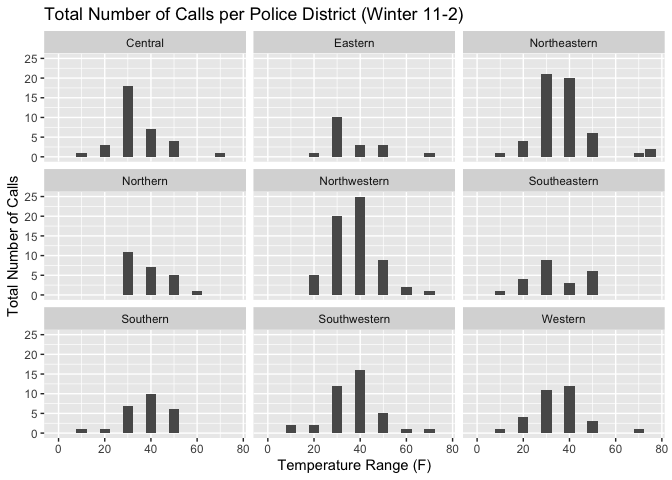
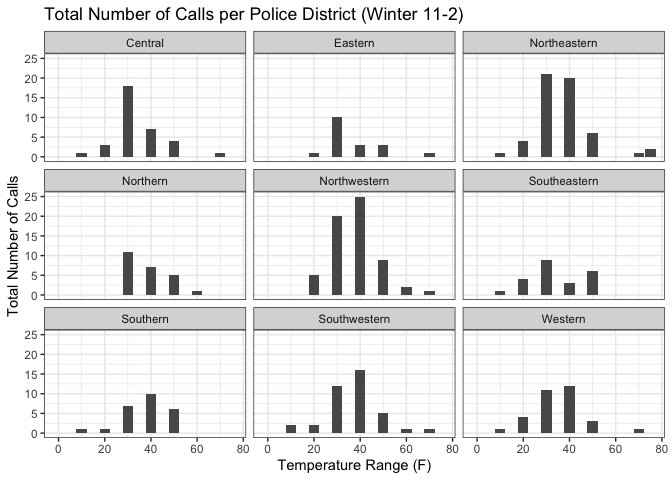
(11/14/2024) Worked on the map.

diff --git a/README.md b/README.md
@@ -193,23 +193,13 @@ winter_df <- df2 %>%
   filter(seasons == 1) %>%
   group_by(policeDistrict, tempCatagories) %>%
   summarise(avg_calls = mean(callscount, na.rm = TRUE))
-```
 
-    `summarise()` has grouped output by 'policeDistrict'. You can override using
-    the `.groups` argument.
-
-``` r
 # for summer
 summer_df <- df2 %>%
   filter(seasons == 0) %>%
   group_by(policeDistrict, tempCatagories) %>%
   summarise(avg_calls = mean(callscount, na.rm = TRUE))
-```
 
-    `summarise()` has grouped output by 'policeDistrict'. You can override using
-    the `.groups` argument.
-
-``` r
 # Scatter plot -winter
 greenPalette <- c("#003300", "#004d00", "#006600", "#008000", "#009900", "#00b300", "#00cc00", "#33cc33", "#66ff66")
 
@@ -219,10 +209,9 @@ ggplot(winter_df, aes(x = tempCatagories, y = avg_calls, color = policeDistrict)
   scale_color_manual(values = greenPalette) +
   labs(title = "Average Number of Calls vs Temperature (F) by Police District (Winter 11-2)",
        x = "Temperature Range (F)", 
-       y = "Average Number of Calls")
+       y = "Average Number of Calls") +
+  theme_bw()
 ```
-
-    `geom_smooth()` using method = 'loess' and formula = 'y ~ x'
 
 ![](README_files/figure-commonmark/unnamed-chunk-6-1.png)
 
@@ -235,16 +224,15 @@ ggplot(summer_df, aes(x = tempCatagories, y = avg_calls, color = policeDistrict)
   #scale_color_manual(values = c("#006400", "#228B22", "#32CD32", "#7FFF00", "#ADFF2F")) +
   labs(title = "Average Number of Calls vs Temperature (F) by Police District (Summer 4-9)",
        x = "Temperature Range (F)", 
-       y = "Average Number of Calls")
+       y = "Average Number of Calls") +
+  theme_bw()
 ```
-
-    `geom_smooth()` using method = 'loess' and formula = 'y ~ x'
 
 ![](README_files/figure-commonmark/unnamed-chunk-6-2.png)
 
 ``` r
 #----------------------------------------------------------------------------------------------
-# We will not be using these graphs
+# We will not be using these graphs (I think so)
 
 
 # for winter
@@ -252,30 +240,21 @@ df_winter <- df2 %>%
   filter(seasons == 1) %>%
   group_by(policeDistrict, tempCatagories) %>%
   summarize(total_callscount = sum(callscount))
-```
 
-    `summarise()` has grouped output by 'policeDistrict'. You can override using
-    the `.groups` argument.
-
-``` r
 # for summer
 df_summer <- df2 %>%
   filter(seasons == 0) %>%
   group_by(policeDistrict, tempCatagories) %>%
   summarize(total_callscount = sum(callscount))
-```
 
-    `summarise()` has grouped output by 'policeDistrict'. You can override using
-    the `.groups` argument.
-
-``` r
 # Grouped bar graph -winter
 ggplot(df_winter, aes(x = tempCatagories, y = total_callscount)) + 
     geom_bar(stat="identity") +
     facet_wrap((~ as.character(policeDistrict))) +
     labs(title = "Total Number of Calls per Police District (Winter 11-2)",
        x = "Temperature Range (F)", 
-       y = "Total Number of Calls")
+       y = "Total Number of Calls") +
+  theme_bw()
 ```
 
 ![](README_files/figure-commonmark/unnamed-chunk-6-3.png)
@@ -287,7 +266,8 @@ ggplot(df_summer, aes(x = tempCatagories, y = total_callscount)) +
     facet_wrap((~ as.character(policeDistrict))) +
     labs(title = "Total Number of Calls per Police District (Summer 4-9)",
        x = "Temperature Range (F)", 
-       y = "Total Number of Calls")
+       y = "Total Number of Calls") +
+  theme_bw()
 ```
 
 ![](README_files/figure-commonmark/unnamed-chunk-6-4.png)
@@ -1429,18 +1409,155 @@ summary(model5)
 The Map: (not done yet)
 
 ``` r
+# for summer
+model6<-felm(call_bin ~ temp_F:as.factor(policeDistrict) +
+               holiday_bin |
+               #year + month + dow, data=df4s)
+               policeDistrict + year + month + dow, data=df4s)
+
+summary(model6)
+```
+
+
+    Call:
+       felm(formula = call_bin ~ temp_F:as.factor(policeDistrict) +      holiday_bin | policeDistrict + year + month + dow, data = df4s) 
+
+    Residuals:
+         Min       1Q   Median       3Q      Max 
+    -0.43895 -0.18558 -0.12940 -0.06832  0.98970 
+
+    Coefficients:
+                                                   Estimate Std. Error t value
+    holiday_bin                                   0.0508984  0.0302248   1.684
+    temp_F:as.factor(policeDistrict)Central      -0.0009550  0.0014700  -0.650
+    temp_F:as.factor(policeDistrict)Eastern       0.0001648  0.0015378   0.107
+    temp_F:as.factor(policeDistrict)Northeastern -0.0001467  0.0016240  -0.090
+    temp_F:as.factor(policeDistrict)Northern     -0.0007753  0.0016896  -0.459
+    temp_F:as.factor(policeDistrict)Northwestern  0.0018702  0.0016798   1.113
+    temp_F:as.factor(policeDistrict)Southeastern -0.0006940  0.0014842  -0.468
+    temp_F:as.factor(policeDistrict)Southern      0.0006162  0.0015805   0.390
+    temp_F:as.factor(policeDistrict)Southwestern -0.0003609  0.0015695  -0.230
+    temp_F:as.factor(policeDistrict)Western      -0.0009668  0.0015843  -0.610
+                                                 Pr(>|t|)  
+    holiday_bin                                    0.0923 .
+    temp_F:as.factor(policeDistrict)Central        0.5160  
+    temp_F:as.factor(policeDistrict)Eastern        0.9146  
+    temp_F:as.factor(policeDistrict)Northeastern   0.9280  
+    temp_F:as.factor(policeDistrict)Northern       0.6464  
+    temp_F:as.factor(policeDistrict)Northwestern   0.2656  
+    temp_F:as.factor(policeDistrict)Southeastern   0.6401  
+    temp_F:as.factor(policeDistrict)Southern       0.6966  
+    temp_F:as.factor(policeDistrict)Southwestern   0.8182  
+    temp_F:as.factor(policeDistrict)Western        0.5417  
+    ---
+    Signif. codes:  0 '***' 0.001 '**' 0.01 '*' 0.05 '.' 0.1 ' ' 1
+
+    Residual standard error: 0.3614 on 2826 degrees of freedom
+    Multiple R-squared(full model): 0.04363   Adjusted R-squared: 0.03314 
+    Multiple R-squared(proj model): 0.002015   Adjusted R-squared: -0.008932 
+    F-statistic(full model):4.159 on 31 and 2826 DF, p-value: 1.567e-13 
+    F-statistic(proj model): 0.5707 on 10 and 2826 DF, p-value: 0.8391 
+    *** Standard errors may be too high due to more than 2 groups and exactDOF=FALSE
+
+``` r
+# for winter
+model7<-felm(call_bin ~ temp_F:as.factor(policeDistrict) +
+               holiday_bin |
+               #year + month + dow, data=df4w)
+               policeDistrict + year + month + dow, data=df4w)
+
+summary(model7)
+```
+
+
+    Call:
+       felm(formula = call_bin ~ temp_F:as.factor(policeDistrict) +      holiday_bin | policeDistrict + year + month + dow, data = df4w) 
+
+    Residuals:
+         Min       1Q   Median       3Q      Max 
+    -0.39311 -0.16921 -0.11406 -0.05628  0.97698 
+
+    Coefficients:
+                                                   Estimate Std. Error t value
+    holiday_bin                                   0.0096733  0.0221998   0.436
+    temp_F:as.factor(policeDistrict)Central      -0.0010398  0.0022140  -0.470
+    temp_F:as.factor(policeDistrict)Eastern      -0.0001305  0.0022839  -0.057
+    temp_F:as.factor(policeDistrict)Northeastern -0.0022759  0.0021994  -1.035
+    temp_F:as.factor(policeDistrict)Northern      0.0023277  0.0022951   1.014
+    temp_F:as.factor(policeDistrict)Northwestern  0.0036696  0.0022076   1.662
+    temp_F:as.factor(policeDistrict)Southeastern -0.0013753  0.0021702  -0.634
+    temp_F:as.factor(policeDistrict)Southern      0.0019048  0.0022473   0.848
+    temp_F:as.factor(policeDistrict)Southwestern  0.0018269  0.0021278   0.859
+    temp_F:as.factor(policeDistrict)Western      -0.0032152  0.0021779  -1.476
+                                                 Pr(>|t|)  
+    holiday_bin                                    0.6631  
+    temp_F:as.factor(policeDistrict)Central        0.6387  
+    temp_F:as.factor(policeDistrict)Eastern        0.9544  
+    temp_F:as.factor(policeDistrict)Northeastern   0.3009  
+    temp_F:as.factor(policeDistrict)Northern       0.3106  
+    temp_F:as.factor(policeDistrict)Northwestern   0.0966 .
+    temp_F:as.factor(policeDistrict)Southeastern   0.5263  
+    temp_F:as.factor(policeDistrict)Southern       0.3968  
+    temp_F:as.factor(policeDistrict)Southwestern   0.3907  
+    temp_F:as.factor(policeDistrict)Western        0.1400  
+    ---
+    Signif. codes:  0 '***' 0.001 '**' 0.01 '*' 0.05 '.' 0.1 ' ' 1
+
+    Residual standard error: 0.3452 on 1933 degrees of freedom
+    Multiple R-squared(full model): 0.04316   Adjusted R-squared: 0.02831 
+    Multiple R-squared(proj model): 0.005007   Adjusted R-squared: -0.01044 
+    F-statistic(full model):2.907 on 30 and 1933 DF, p-value: 2.706e-07 
+    F-statistic(proj model): 0.9727 on 10 and 1933 DF, p-value: 0.4652 
+    *** Standard errors may be too high due to more than 2 groups and exactDOF=FALSE
+
+``` r
 library("terra")
+
 
 police_districts<-vect("/Users/roshan/Downloads/UMD/Fall-2024/FIRE298/research-Greenspace/Police_Districts_2023/Police_Districts_2023.shp")
 
-# baltimore <- c("21201", "21202", "21205", "21206", "21207", "21208", "21209", "21210", "21211", "21212", "21213", "21214", "21215", "21216", "21217", "21218", "21222", "21223", "21224", "21225", "21226", "21227", "21228", "21229", "21230", "21231", "21234", "21236", "21237", "21239", "21251", "21287")
+# for summer
+police_districts$trt_summer <- 0
 
-police_districts$trt <- 0
+police_districts$trt_summer[police_districts$Dist_Name=="Central"] <- -0.09550
+police_districts$trt_summer[police_districts$Dist_Name=="Eastern"] <- 0.01648
+police_districts$trt_summer[police_districts$Dist_Name=="Northeastern"] <- -0.01467
+police_districts$trt_summer[police_districts$Dist_Name=="Northern"] <- -0.07753
+police_districts$trt_summer[police_districts$Dist_Name=="Northwestern"] <- 0.18702
+police_districts$trt_summer[police_districts$Dist_Name=="Southeastern"] <- -0.06940
+police_districts$trt_summer[police_districts$Dist_Name=="Southern"] <- 0.06162
+police_districts$trt_summer[police_districts$Dist_Name=="Southwestern"] <- -0.03609
+police_districts$trt_summer[police_districts$Dist_Name=="Western"] <- -0.09668
 
-plot(police_districts, "trt", col=map.pal("greens"))
+png("map_summer.png", width=6, height=4, unit="in", res=500)
+plot(police_districts, "trt_summer", col=map.pal("greens"))
+dev.off()
 ```
 
-![](README_files/figure-commonmark/unnamed-chunk-10-1.png)
+    quartz_off_screen 
+                    2 
+
+``` r
+# for winter
+police_districts$trt_winter <- 0
+
+police_districts$trt_winter[police_districts$Dist_Name=="Central"] <- -0.10398
+police_districts$trt_winter[police_districts$Dist_Name=="Eastern"] <- -0.01305
+police_districts$trt_winter[police_districts$Dist_Name=="Northeastern"] <- -0.22759
+police_districts$trt_winter[police_districts$Dist_Name=="Northern"] <- 0.23277
+police_districts$trt_winter[police_districts$Dist_Name=="Northwestern"] <- 0.36696
+police_districts$trt_winter[police_districts$Dist_Name=="Southeastern"] <- -0.13753
+police_districts$trt_winter[police_districts$Dist_Name=="Southern"] <- 0.19048
+police_districts$trt_winter[police_districts$Dist_Name=="Southwestern"] <- 0.18269
+police_districts$trt_winter[police_districts$Dist_Name=="Western"] <- -0.32152
+
+png("map_winter.png", width=6, height=4, unit="in", res=500)
+plot(police_districts, "trt_winter", col=map.pal("greens"))
+dev.off()
+```
+
+    quartz_off_screen 
+                    2 
 
 Future Plans:
 
